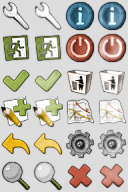
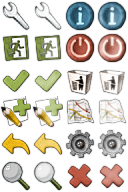
Added transparency to buttons.

diff --git a/src/painman/screen/Button.java b/src/painman/screen/Button.java
@@ -255,10 +255,9 @@ public class Button extends CustomItem {
         int x = 32*col;
         int y = 32*row;
         
-        Image icon = Image.createImage(32, 32);        
-        
-        Graphics g = icon.getGraphics();
-        g.drawImage(getIconImg(), -x, -y, Graphics.TOP | Graphics.LEFT);
+        int[] iconRGB = new int[32*32];
+        getIconImg().getRGB(iconRGB, 0, 32, x, y, 32, 32);
+        Image icon = Image.createRGBImage(iconRGB, 32, 32, true);
         
         return icon;
     }
